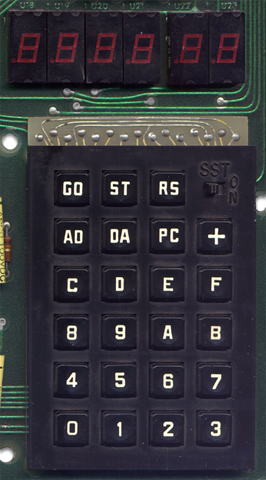
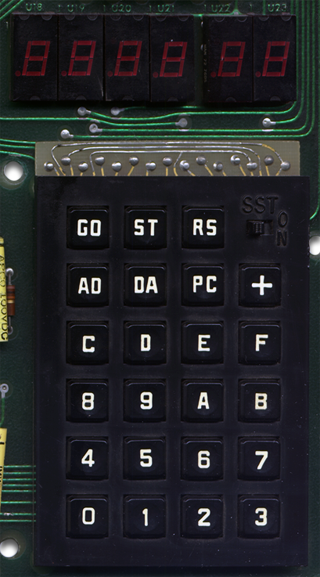
Implemented MOS KIM-1 View
git-svn-id: http://openemulator.googlecode.com/svn/trunk@552 74409d68-d9b4-11dd-93da-dbb4cac96d7c

diff --git a/libemulation/Implementation/MOS/MOSKIM1IO.cpp b/libemulation/Implementation/MOS/MOSKIM1IO.cpp
@@ -20,22 +20,15 @@ MOSKIM1IO::MOSKIM1IO()
 	audioOut = NULL;
 	audioIn = NULL;
 	
-	view = NULL;
-	
 	canvas = NULL;
 }
 
-MOSKIM1IO::~MOSKIM1IO()
+bool MOSKIM1IO::setValue(string name, string value)
 {
-	delete view;
-}
-
-bool MOSKIM1IO::setData(string name, OEData *data)
-{
-	if (name == "view")
-		view = data;
+	if (name == "viewPath")
+		viewPath = value;
 	else
-		return OEComponent::setData(name, data);
+		return false;
 	
 	return true;
 }
@@ -71,6 +64,34 @@ bool MOSKIM1IO::setRef(string name, OEComponent *ref)
 
 bool MOSKIM1IO::init()
 {
+	if (!emulation)
+	{
+		log("property 'emulation' undefined");
+		return false;
+	}
+	
+	if (!canvas)
+	{
+		log("canvas could not be created");
+		return false;
+	}
+	
+	if (canvas)
+	{
+		OEImage *frame = NULL;
+		OESize frameSize;
+		canvas->postMessage(this, CANVAS_REQUEST_FRAME, &frame);
+		frame->readFile(viewPath);
+		frameSize = frame->getSize();
+		canvas->postMessage(this, CANVAS_RETURN_FRAME, &frame);
+		
+		CanvasConfiguration configuration;
+		configuration.size = frameSize;
+		configuration.zoomToFit = false;
+		configuration.captureMode = CANVAS_CAPTUREMODE_NO_CAPTURE;
+		canvas->postMessage(this, CANVAS_CONFIGURE, &configuration);
+	}
+	
 	return true;
 }
 

diff --git a/libemulation/Implementation/Apple/AppleGraphicsTablet.cpp b/libemulation/Implementation/Apple/AppleGraphicsTablet.cpp
@@ -67,13 +67,10 @@ bool AppleGraphicsTablet::init()
 	if (canvas)
 	{
 		OEImage *frame = NULL;
-		OESize frameSize = OEMakeSize(640, 480);
+		OESize frameSize;
 		canvas->postMessage(this, CANVAS_REQUEST_FRAME, &frame);
-		if (frame)
-		{
-			frame->readFile(viewPath);
-			frameSize = frame->getSize();
-		}
+		frame->readFile(viewPath);
+		frameSize = frame->getSize();
 		canvas->postMessage(this, CANVAS_RETURN_FRAME, &frame);
 		
 		CanvasConfiguration configuration;

diff --git a/macosx/CanvasView.mm b/macosx/CanvasView.mm
@@ -457,8 +457,8 @@ static CVReturn displayLinkCallback(CVDisplayLinkRef displayLink,
 	[document unlockEmulation];
 	
 	NSSize size;
-	size.width = (defaultSize.width < 128) ? 128 : defaultSize.width;
-	size.height = (defaultSize.height < 128) ? 128 : defaultSize.height;
+	size.width = (defaultSize.width < 192) ? 192 : defaultSize.width;
+	size.height = (defaultSize.height < 192) ? 192 : defaultSize.height;
 	
 	return size;
 }

diff --git a/libemulation/Implementation/MOS/MOSKIM1IO.h b/libemulation/Implementation/MOS/MOSKIM1IO.h
@@ -14,9 +14,8 @@ class MOSKIM1IO : public OEComponent
 {
 public:
 	MOSKIM1IO();
-	~MOSKIM1IO();
 	
-	bool setData(string name, OEData *data);
+	bool setValue(string name, string value);
 	bool setRef(string name, OEComponent *ref);
 	bool init();
 	
@@ -28,7 +27,7 @@ private:
 	OEComponent *audioOut;
 	OEComponent *audioIn;
 	
-	OEData *view;
+	string viewPath;
 	
 	OEComponent *canvas;
 	string windowFrame;
